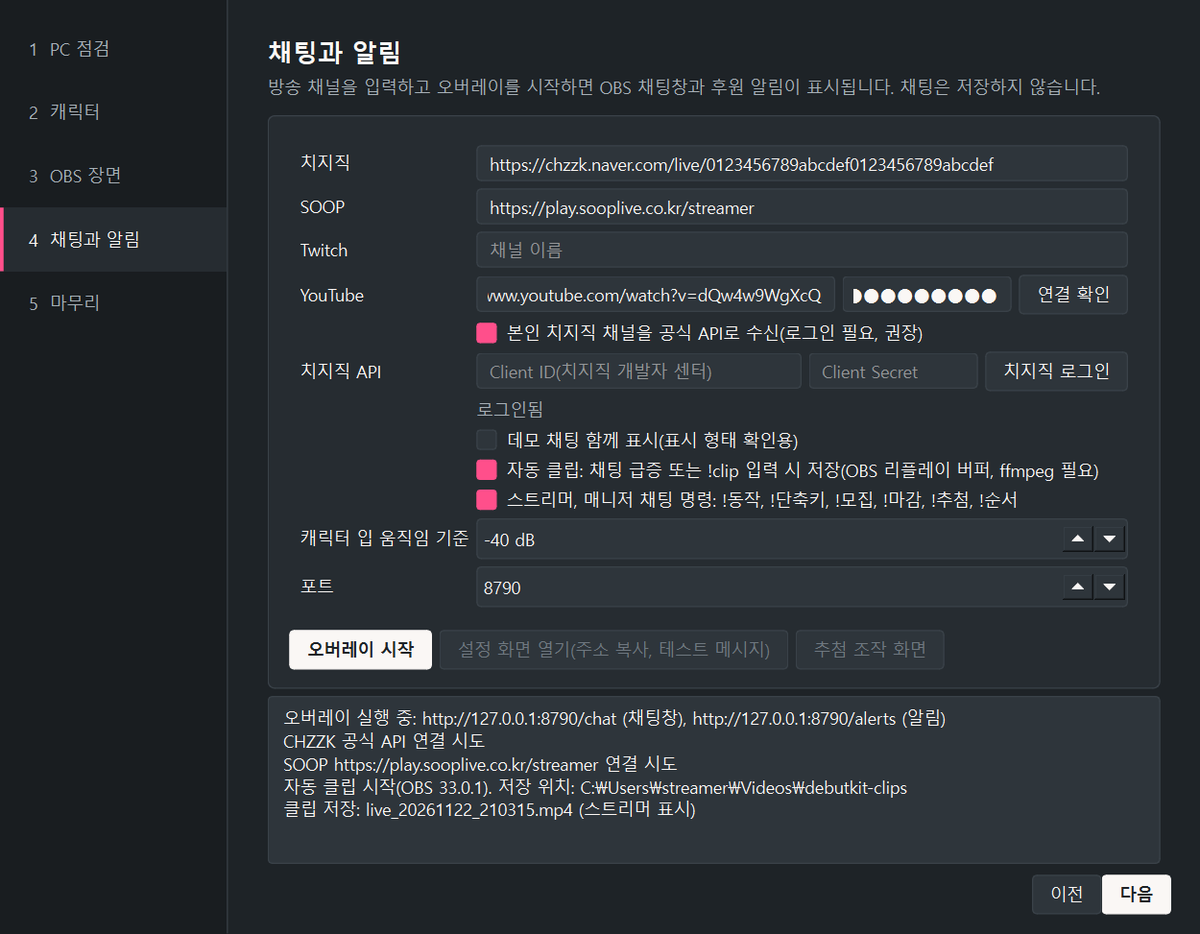
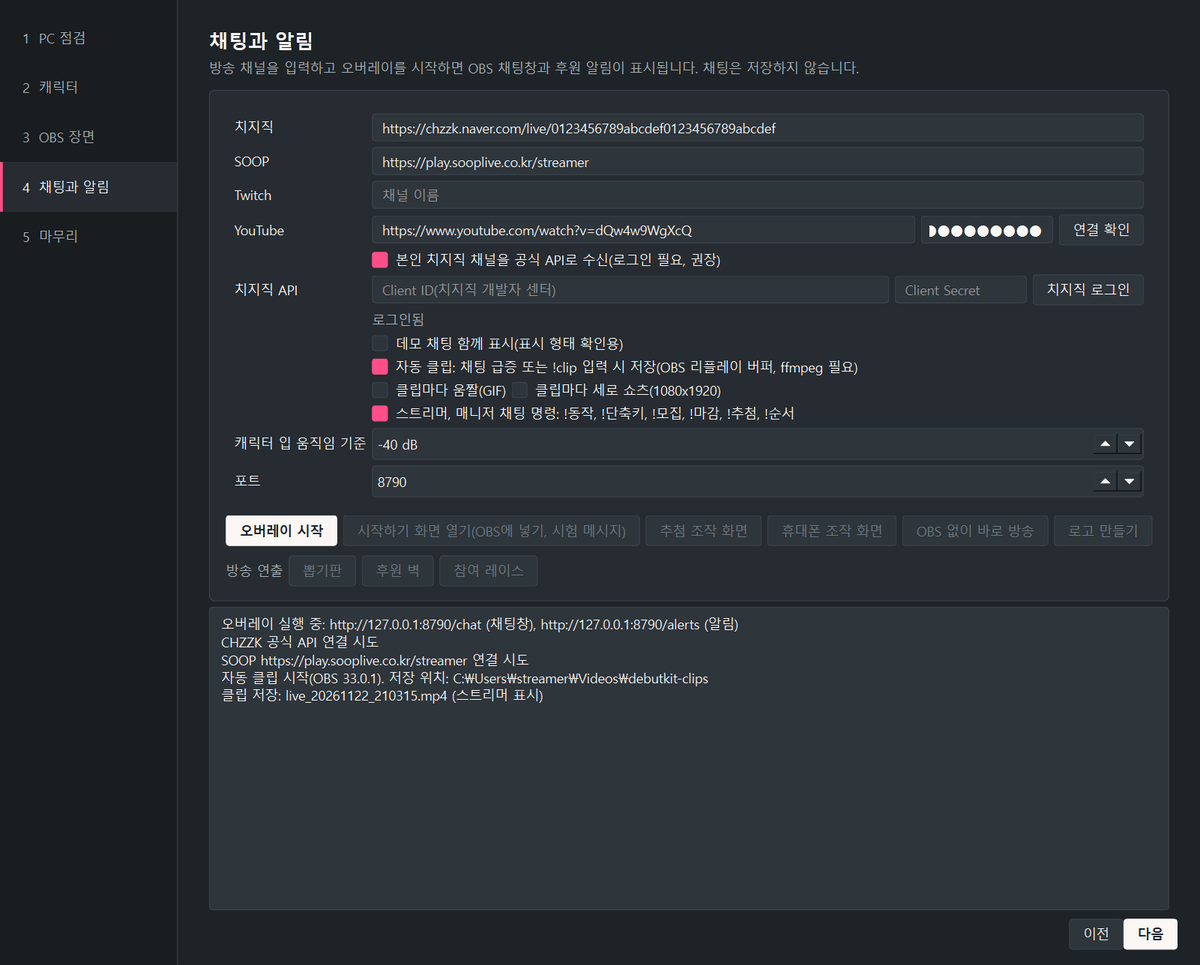
1.0.0rc20 문서에 모양 고르기의 그림 견본, 추첨과 레이스와 후원 벽과 뽑기판의 추천값과 처음 상태로: 사용 설명서, 릴리스 노트, 검증 범위, 다음 단계 후보. 화면 그림 다시 찍기(설정 마법사, 시작하기 화면, 추첨 연출, 채팅창 표시 형태)와 알림 꾸미기 그림 추가(그림 번호 다시 매김, 촬영 스크립트와 사이트 자산 목록)

diff --git a/site/guide.html b/site/guide.html
@@ -137,7 +137,7 @@ debutkit-gui</code></pre>
           </table>
         </div>
         <figure>
-          <img src="assets/shots/wizard-chat.png" alt="설정 마법사 채팅과 알림 단계" width="1200" height="934" loading="lazy">
+          <img src="assets/shots/wizard-chat.png" alt="설정 마법사 채팅과 알림 단계" width="1200" height="965" loading="lazy">
           <figcaption>그림 1. 채팅과 알림 단계</figcaption>
         </figure>
         <ul>
@@ -179,7 +179,7 @@ debutkit-gui</code></pre>
         <h2 id="character">캐릭터</h2>
         <p>방송에 사용할 캐릭터를 등록하고 사용 조건을 확인합니다. PNGTuber와 3D(VRM, GLB, FBX)는 debutkit 캐릭터 화면으로 바로 방송하고, Live2D는 VTube Studio로 보내 방송합니다.</p>
         <figure>
-          <img src="assets/shots/wizard-character.png" alt="설정 마법사 캐릭터 단계. 캐릭터 목록, 사용 조건, 추가, PNG로 만들기, 방송에 사용, 얼굴 추적 창 열기, VTube Studio 연결" width="1200" height="934" loading="lazy">
+          <img src="assets/shots/wizard-character.png" alt="설정 마법사 캐릭터 단계. 캐릭터 목록, 사용 조건, 추가, PNG로 만들기, 방송에 사용, 얼굴 추적 창 열기, VTube Studio 연결" width="1200" height="965" loading="lazy">
           <figcaption>그림 2. 캐릭터 단계</figcaption>
         </figure>
         <h3 id="character-kinds">종류별 처리</h3>
@@ -507,7 +507,7 @@ debutkit camera status                # 휴대폰 연결 대기, 수신 중</cod
           </table>
         </div>
         <figure>
-          <img src="assets/shots/overlay-settings.png" alt="시작하기 화면. 채팅창, 알림, 캐릭터 화면 주소와 미리보기" width="1180" height="1340" loading="lazy">
+          <img src="assets/shots/overlay-settings.png" alt="시작하기 화면. 방송 준비 목록(진행 막대, debutkit 켜기, OBS 연결, OBS에 넣기, 시험 후원, 방송 모양 고르기)과 방송 직전 점검(OBS, 방송 장면, 알림 소리, 채팅 연결, 마이크)" width="1180" height="1340" loading="lazy">
           <figcaption>그림 3. 시작하기 화면</figcaption>
         </figure>
         <h3 id="overlay-start">시작하기 화면과 OBS에 넣기</h3>
@@ -592,12 +592,17 @@ debutkit settings                                # 저장 내용 확인</code></
         <ul>
           <li>추천 모양 5가지(기본 카드, 크게 가운데, 아래 띠, 말풍선, 금액별로 다르게)를 누르면 배치, 위치, 움직임, 효과음, 금액 구간이 한꺼번에 채워집니다. 문구와 올린 그림은 그대로이며 처음 상태로는 기본값으로 돌립니다. 둘 다 저장해야 방송 화면에 반영됩니다.</li>
           <li>저장하지 않은 변경이 있으면 저장 단추에 바뀐 내용 있음이 붙고, 저장하지 않고 화면을 닫으려 하면 브라우저가 한 번 묻습니다.</li>
+          <li>추천 모양과 배치 단추에는 그림 견본이 붙어 있습니다. 저장한 문구와 스타일로 그린 실제 알림 모습이며 소리 없이 이 화면에서만 그립니다.</li>
           <li>배치 6종: 카드, 가로 띠(화면 아래 한 줄), 말풍선, 큰 글자(바탕 없음), 그림 옆 글자, 그림 위 카드</li>
           <li>강조 효과 5종: 반짝이, 종이 조각, 흔들림, 빛 번짐, 크게. 큰 후원 구간에만 넣으면 금액에 따라 연출이 달라집니다.</li>
           <li>금액 구간은 원 기준이며 SOOP 별풍선은 1개 100원으로 계산합니다. Twitch 비트와 외화 후원은 최소 금액 0 구간을 씁니다.</li>
           <li>효과음 5종(차임, 동전, 팡파르, 퐁, 방울)은 브라우저에서 합성하며 OBS 브라우저 소스 속성의 OBS 오디오 제어를 켠 경우 방송에 나갑니다.</li>
           <li>올린 그림(PNG, GIF, WebP, JPEG, 8 MB 이하, 30개까지)은 이 PC의 설정 폴더 <code>alert-images</code>에만 보관합니다. 그림을 지우면 그 그림을 쓰던 구간은 그림 없이 표시합니다.</li>
         </ul>
+        <figure>
+          <img src="assets/shots/overlay-alerts-looks.png" alt="알림 꾸미기 화면. 추천 모양 5가지와 방송 스타일 16가지 단추마다 실제 알림 모습 그림, 오른쪽에 미리보기와 OBS에 넣기" width="1200" height="1180" loading="lazy">
+          <figcaption>그림 5. 알림 꾸미기의 추천 모양과 스타일 그림</figcaption>
+        </figure>
         <h3 id="overlay-draw">후원 추첨</h3>
         <p>후원이 오면 상품표에서 확률대로 뽑아 방송 화면에 카드 뒤집기, 룰렛, 캡슐 뽑기, 즉석 복권, 티켓 출력, 추첨기, 타로 중 고른 연출로 표시합니다. 평소에는 투명하고 추첨할 때만 화면 아래쪽에 나타납니다. 고양이 귀 마이크 문양을 찍은 카드와 무대용 상품 룰렛, 후원자와 금액을 표시하는 하단 띠로 구성됩니다.</p>
         <ol class="procedure">
@@ -609,7 +614,7 @@ debutkit settings                                # 저장 내용 확인</code></
         </ol>
         <figure>
           <img src="assets/shots/overlay-draw.png" alt="후원 추첨 연출. 왼쪽은 카드 3장을 펼쳐 마지막 희귀 카드를 금색으로 공개한 화면, 오른쪽은 상품 룰렛이 희귀 칸에 멈춘 화면. 아래에 결과 판과 후원자 띠" width="1200" height="500" loading="lazy">
-          <figcaption>그림 5. 후원 추첨 연출(카드 뒤집기, 룰렛)</figcaption>
+          <figcaption>그림 6. 후원 추첨 연출(카드 뒤집기, 룰렛)</figcaption>
         </figure>
         <ul>
           <li>금액은 원 기준이며 SOOP 별풍선은 1개 100원으로 계산합니다. Twitch 비트와 외화 후원은 최소 금액 0 규칙에만 반응합니다.</li>
@@ -624,6 +629,8 @@ debutkit settings                                # 저장 내용 확인</code></
           <li>글꼴은 Black Han Sans, Pretendard(모두 SIL OFL)를 프로그램에 포함해 인터넷 연결 없이 표시합니다.</li>
           <li>소품 연출: 캡슐 뽑기(손잡이를 돌릴 때마다 등급 색 캡슐), 즉석 복권(동전으로 은박 긁기, 희귀 칸은 마지막에 천천히), 티켓 출력(등급 색 램프와 출력), 추첨기(구슬 색이 등급), 타로(카드를 섞어 한 장씩 펼치고 오늘의 한마디). 연출마다 모양 3종</li>
           <li>꾸미기: 결과 뒤 효과(종이 조각, 색 테이프, 불꽃놀이, 무대 조명, 하트, 별), 상품 이름과 안내 글의 글꼴과 크기. 타로의 한마디는 직접 입력하거나 기본 문장</li>
+          <li>연출과 모양은 그림 단추로 고릅니다. 그림은 저장한 상품표로 뽑은 예시이며 소리 없이 이 화면에서만 움직입니다. 결과 뒤 효과, 글꼴, 타로 한마디, 추첨 이름, 위치와 크기는 자세히를 펼쳐 바꿉니다.</li>
+          <li>추천 상품표 4가지(감사 인사, 벌칙 룰렛, 노래 신청, 꽝 없이)를 누르면 상품표가 채워집니다. 처음 상태로는 상품표, 규칙, 연출을 처음 값으로 채우며(사용 여부는 그대로) 둘 다 저장해야 반영됩니다. 저장하지 않은 변경은 저장 단추에 표시합니다.</li>
           <li>조작 화면의 대본 새 창(<code>/draw/script</code>)은 읽을 문장을 큰 글자로, 기록 화면(<code>/draw/log</code>)은 최근 결과와 상품별 합계를 보여 줍니다. 기다리는 추첨이 3개 이상이면 연출을 빠르게 합니다.</li>
         </ul>
         <h3 id="overlay-raffle">시청자 참여 추첨</h3>
@@ -635,7 +642,7 @@ debutkit settings                                # 저장 내용 확인</code></
         </ol>
         <figure>
           <img src="assets/shots/overlay-raffle.png" alt="시청자 참여 추첨. 왼쪽은 당첨 카드 3장과 당첨 판, 오른쪽은 참가자 12명의 순서표" width="1200" height="500" loading="lazy">
-          <figcaption>그림 6. 시청자 참여 추첨(당첨자 뽑기, 순서 정하기)</figcaption>
+          <figcaption>그림 7. 시청자 참여 추첨(당첨자 뽑기, 순서 정하기)</figcaption>
         </figure>
         <ul>
           <li>후원 참가: 최소 금액 이상 후원한 시청자도 자동으로 참가합니다(원 기준, 별풍선 1개 100원). 0원은 모든 후원입니다.</li>
@@ -689,6 +696,7 @@ debutkit remote approve 기기                   # 승인(remove로 삭제)</cod
         <ul>
           <li><code>http://127.0.0.1:8790/stage</code>는 채팅, 캐릭터, 알림, 추첨, 후원 벽, 목표 게이지, 순위, 뽑기판, 레이스를 OBS 장면과 같은 자리에 겹쳐 보여 줍니다. 시험 후원(단위와 금액), 시험 채팅, 구독으로 후원 하나가 여러 화면에 어떻게 나오는지 확인합니다.</li>
           <li>방송 색: 색 조합 12종 중 하나를 고르거나 주 색과 강조 색(희귀, 금박)을 직접 고릅니다. 로고 만들기에서 저장한 로고의 색을 가져올 수도 있습니다. 채팅, 알림, 추첨 소품, 뽑기판, 후원 벽, 레이스, 조작 화면이 같은 색을 쓰며 OBS 소스를 새로고침하지 않아도 바뀝니다. 뽑기판과 레이스에서 다른 색을 고르면 그 색이 우선합니다.</li>
+          <li>추천 조합 6가지와 방송 스타일 단추에는 그 조합이나 스타일로 그린 후원 알림 그림이 붙어 있습니다. 게임 패키지 단추의 그림은 게임 HUD 자리(점선)와 피해서 놓는 캐릭터, 채팅, 목표, 순위 자리입니다.</li>
           <li>방송 스타일 8종(방송 소품, 파스텔 몽글, 네온, 레트로 픽셀, 유리, 다이어리, 밤하늘, 미니멀): 모서리, 테두리, 그림자, 바탕, 글꼴, 등장 움직임을 묶어서 바꿉니다. 알림, 채팅창(방송 스타일 카드), 후원 벽, 목표 게이지, 후원 순위가 따르며 방송 색과 함께 씁니다. 알림과 채팅창은 각각 다른 스타일을 고를 수도 있습니다.</li>
           <li>글꼴: 제목 글꼴(이름, 금액, 제목)과 본문 글꼴(메시지, 설명)을 따로 고릅니다. 함께 배포한 글꼴, Windows와 macOS 기본 한글 글꼴, 이 PC에 설치한 글꼴 이름을 쓸 수 있고, 글꼴 파일(TTF, OTF, WOFF, WOFF2, 20 MB 이하)을 올릴 수도 있습니다. 올린 글꼴은 방송에 쓸 수 있는 라이선스인지 확인합니다.</li>
           <li>레트로 픽셀 스타일은 도트 글꼴 갈무리11(Galmuri11), 다이어리 스타일은 손글씨 글꼴 개구(Gaegu)를 씁니다. 둘 다 SIL OFL 글꼴이며 debutkit에 함께 들어 있습니다. 개구에 없는 드문 한글 글자는 기본 글꼴로 표시합니다.</li>
@@ -716,6 +724,7 @@ debutkit remote approve 기기                   # 승인(remove로 삭제)</cod
           <li>배치 보기(이 화면에만)로 당첨 칸 위치를 확인할 수 있습니다. 방송 화면에는 연 칸만 전달합니다.</li>
         </ol>
         <ul>
+          <li>디자인과 덮개 무늬는 그림 단추로 고릅니다. 그림은 저장한 색과 글꼴로 그린 12칸 예시 판(3번 당첨, 8번 꽝이 열린 모습)입니다. 처음 상태로는 디자인, 글자, 연출과 소리, 방송 화면 표시를 처음 값으로 채우고 판과 상품, 시청자 참여는 그대로 둡니다(저장해야 반영).</li>
           <li>디자인 7종(카드 뒤집기, 긁는 복권, 봉투, 캡슐, 작은 문, 스티커 떼기, 메모지), 색(첫 항목은 방송 색), 칸 덮개 11종, 글꼴, 열기 효과 10종과 꽝 효과, 당첨과 꽝 효과음, 제목, 설명, 결과 카드의 글자 크기와 색과 정렬</li>
           <li>시청자 참여(선택): 채팅 명령(기본 <code>!뽑기 7</code>)이나 정한 금액 이상의 후원으로 칸 열기. 열 수 있는 사람(모두, 후원자만, 스트리머와 매니저만), 시청자별 대기 시간, 플랫폼 선택</li>
           <li>공정성 확인: 판을 만들 때 배치와 무작위 문자열로 만든 SHA-256 값을 방송 화면 아래에 공개합니다. 끝내고 배치 공개를 누르면 배치와 문자열을 공개해 누구나 같은 값인지 확인할 수 있습니다.</li>
@@ -727,6 +736,7 @@ debutkit remote approve 기기                   # 승인(remove로 삭제)</cod
         <ul>
           <li>칸 묶기: 단위마다 정확한 개수, 앞자리별(30~39개), 자릿수별, 10, 100, 1000 단위(원은 천과 만 단위). 시그니처 금액은 올린 그림(PNG, GIF, WebP, JPEG, 8 MB 이하)으로 따로 크게 세우고 그림 안에 숫자가 있으면 숫자를 숨깁니다.</li>
           <li>오라 단계(많이 보낼수록 빛 번짐, 반사광, 별가루, 금박), 등장 연출 10종, 대기 효과 6종. 몰려도 차례대로 붙고 기다리는 카드가 많으면 빠르게 붙습니다.</li>
+          <li>연출 칸의 그림은 예시 카드에 고른 등장과 대기 효과를 붙인 모습이며 마지막 카드의 등장을 되풀이합니다. 추천 연출 4가지(차분하게, 귀엽게, 화려하게, 매번 다르게)와 처음 상태로가 있고, 빠른 진행과 시작할 때 비우기 같은 설정은 자세히에 접혀 있습니다. 저장하지 않은 칸은 저장 단추에 표시합니다.</li>
           <li>배치: 자동 배치는 오른쪽 채팅 자리를 비웁니다(선택). OBS의 상호 작용 창이나 조작 화면 미리보기에서 칸을 끌어 옮기고 크기를 바꿉니다. 장면 만들기는 후원 벽을 캐릭터 뒤에 둡니다.</li>
           <li>목표 게이지(<code>/wall/goal</code>, 권장 1280x240)는 원 기준 합계나 단위별 개수와 중간 목표, 후원 순위(<code>/wall/rank</code>, 권장 560x720)는 원 기준 순위입니다. 장면 만들기는 둘 다 왼쪽 위에 작게 숨겨 넣습니다.</li>
           <li>시험 카드(시험 표시, 시험 카드 지우기로 정리), 카드 떼어 옮기기, 마지막 카드 다시 보기, 비우기와 8초 안에 되돌리기, 후원자별 합계 내보내기</li>
@@ -739,6 +749,7 @@ debutkit remote approve 기기                   # 승인(remove로 삭제)</cod
           <li>게임: 구슬 레이스(코스 3종), 달리기 경주(8명씩 예선과 결승 또는 30명까지 같이), 서바이벌(좁아지는 경기장에서 끝까지 남기). 붙여 넣은 이름도 참가하며 <code>이름*3</code>은 3번 참가합니다. 한 판 최대 100명</li>
           <li>순위와 시드는 시작할 때 debutkit이 운영체제 난수로 정해 방송 화면과 조작 화면이 같은 결과를 보여 줍니다. 경기 중에 연 화면도 지금 장면부터 이어서 보여 줍니다. 화면 아래에 시드 번호를 표시합니다.</li>
           <li>깜짝 요소(없음, 조금, 많이와 종류별 켜기), 당첨 순위(1등, 꼴등, 직접 입력), 경기 길이, 재생 속도 0.7~2.2배, 디자인 3종, 색(첫 항목은 방송 색), 글꼴, 효과음</li>
+          <li>게임, 코스, 디자인은 그림 단추로 고릅니다. 그림은 저장한 설정의 예시 경주를 중간에 멈춘 장면입니다. 추천 3가지(가볍게 한 판, 빠른 달리기, 끝까지 긴장)와 처음 상태로(게임과 꾸미기만, 참가자 설정은 그대로)가 있으며 이 화면은 바꾸면 바로 저장합니다. 재생 속도와 깜짝 요소는 자세히에 접혀 있습니다.</li>
           <li>결과는 채팅창 안내 한 줄로 알리고 전체 순위와 조별 기록을 텍스트 파일로 저장할 수 있습니다. 연습 모드는 예시 이름으로 미리 해 봅니다.</li>
           <li>명령줄: <code>debutkit race start --game marble</code>, <code>race start --names "치즈냥*3, 도토리"</code>, <code>race next</code>, <code>race stop</code>, <code>race status</code></li>
         </ul>

diff --git a/site/index.html b/site/index.html
@@ -49,7 +49,7 @@
       <div class="slides">
         <figure class="slide" id="slide-1">
           <div class="stage">
-            <img src="assets/shots/wizard-check.png" alt="설정 마법사 PC 점검 단계. 메모리, CPU, 그래픽카드, 마이크, 웹캠, OBS 등 항목별 점검 결과와 조치 안내" width="1200" height="934">
+            <img src="assets/shots/wizard-check.png" alt="설정 마법사 PC 점검 단계. 메모리, CPU, 그래픽카드, 마이크, 웹캠, OBS 등 항목별 점검 결과와 조치 안내" width="1200" height="965">
             <label class="turn prev" for="shot-6"><span class="vh">이전 화면</span></label>
             <label class="turn next" for="shot-2"><span class="vh">다음 화면</span></label>
             <span class="count">1/5</span>
@@ -58,7 +58,7 @@
         </figure>
         <figure class="slide" id="slide-2">
           <div class="stage">
-            <img src="assets/shots/wizard-character.png" alt="설정 마법사 캐릭터 단계. 캐릭터 목록과 사용 조건, 3D 캐릭터 동작 등록" width="1200" height="934" loading="lazy">
+            <img src="assets/shots/wizard-character.png" alt="설정 마법사 캐릭터 단계. 캐릭터 목록과 사용 조건, 3D 캐릭터 동작 등록" width="1200" height="965" loading="lazy">
             <label class="turn prev" for="shot-1"><span class="vh">이전 화면</span></label>
             <label class="turn next" for="shot-3"><span class="vh">다음 화면</span></label>
             <span class="count">2/5</span>
@@ -67,7 +67,7 @@
         </figure>
         <figure class="slide" id="slide-3">
           <div class="stage">
-            <img src="assets/shots/wizard-chat.png" alt="설정 마법사 채팅과 알림 단계. 플랫폼별 채널 입력, 치지직 API 로그인, 자동 클립 선택" width="1200" height="934" loading="lazy">
+            <img src="assets/shots/wizard-chat.png" alt="설정 마법사 채팅과 알림 단계. 플랫폼별 채널 입력, 치지직 API 로그인, 자동 클립 선택" width="1200" height="965" loading="lazy">
             <label class="turn prev" for="shot-2"><span class="vh">이전 화면</span></label>
             <label class="turn next" for="shot-4"><span class="vh">다음 화면</span></label>
             <span class="count">3/5</span>
@@ -85,7 +85,7 @@
         </figure>
         <figure class="slide" id="slide-5">
           <div class="stage">
-            <img src="assets/shots/overlay-settings.png" alt="시작하기 화면. 방송 화면 주소, 표시 형태 선택, 미리보기, 캐릭터 화면과 동작 실행" width="1180" height="1340" loading="lazy">
+            <img src="assets/shots/overlay-settings.png" alt="시작하기 화면. 방송 준비 목록과 방송 직전 점검, OBS에 넣기 단추" width="1180" height="1340" loading="lazy">
             <label class="turn prev" for="shot-4"><span class="vh">이전 화면</span></label>
             <label class="turn next" for="shot-6"><span class="vh">다음 화면</span></label>
             <span class="count">5/6</span>
@@ -103,9 +103,9 @@
         </figure>
       </div>
       <div class="thumbs">
-        <label for="shot-1"><img src="assets/shots/wizard-check.png" alt="" width="1200" height="934"></label>
-        <label for="shot-2"><img src="assets/shots/wizard-character.png" alt="" width="1200" height="934"></label>
-        <label for="shot-3"><img src="assets/shots/wizard-chat.png" alt="" width="1200" height="934"></label>
+        <label for="shot-1"><img src="assets/shots/wizard-check.png" alt="" width="1200" height="965"></label>
+        <label for="shot-2"><img src="assets/shots/wizard-character.png" alt="" width="1200" height="965"></label>
+        <label for="shot-3"><img src="assets/shots/wizard-chat.png" alt="" width="1200" height="965"></label>
         <label for="shot-4"><img src="assets/shots/overlay-themes.png" alt="" width="1200" height="600"></label>
         <label for="shot-5"><img src="assets/shots/overlay-settings.png" alt="" width="1180" height="1340"></label>
         <label for="shot-6"><img src="assets/shots/overlay-draw.png" alt="" width="1200" height="500"></label>
@@ -289,7 +289,7 @@ debutkit-gui</code></pre>
       <ul class="cards">
         <li>
           <a href="guide.html">
-            <img src="assets/shots/wizard-character.png" alt="" width="1200" height="934" loading="lazy">
+            <img src="assets/shots/wizard-character.png" alt="" width="1200" height="965" loading="lazy">
             <span class="label">문서</span>
             <strong>사용 설명서</strong>
             <span class="desc">설치, 설정 마법사, 캐릭터, OBS 장면, 채팅과 알림, 자동 클립 사용 방법</span>
@@ -305,7 +305,7 @@ debutkit-gui</code></pre>
         </li>
         <li>
           <a href="news.html">
-            <img src="assets/shots/wizard-check.png" alt="" width="1200" height="934" loading="lazy">
+            <img src="assets/shots/wizard-check.png" alt="" width="1200" height="965" loading="lazy">
             <span class="label">기록</span>
             <strong>릴리스 노트</strong>
             <span class="desc">버전별 주요 변경 사항과 검증 범위</span>
@@ -313,7 +313,7 @@ debutkit-gui</code></pre>
         </li>
         <li>
           <a href="join.html">
-            <img src="assets/shots/wizard-chat.png" alt="" width="1200" height="934" loading="lazy">
+            <img src="assets/shots/wizard-chat.png" alt="" width="1200" height="965" loading="lazy">
             <span class="label">안내</span>
             <strong>참여 안내</strong>
             <span class="desc">프로그램 사용, 개발 참여, 실제 환경 확인, 소속 버튜버 의향 등록</span>

diff --git a/site/news.html b/site/news.html
@@ -97,6 +97,7 @@
             <li>팬 커뮤니티(<code>debutkit community</code>): 트게더처럼 스트리머마다 자기 커뮤니티(공지, 방송 일정, 게시판, 팬아트, 댓글, 출석과 포인트, 순위). 스트리머 본인의 Cloudflare 무료 계정에 올리고, 방송 채팅 <code>!인증</code>으로 가입, <code>!출석</code> 포인트, 방송에 띄우기, 참여 추첨 연결, 신고 처리와 데이터 내보내기</li>
             <li>처음 쓰는 사람을 위한 화면 정리: 시작하기 화면의 방송 준비 목록(OBS 연결과 넣은 화면 자동 확인), 방송 화면마다 OBS에 넣기(크기와 알림 소리까지), 위쪽 메뉴를 할 일 묶음 다섯으로, 용어 풀이, 추천 조합</li>
             <li>방송 직전 점검: OBS, 방송 장면, 알림 소리, 채팅 연결, 마이크를 한곳에서 보고 단추로 바로 고치기. 알림 꾸미기의 추천 모양과 처음 상태로, 저장하지 않은 변경 표시</li>
+            <li>모양을 그림으로 고르기: 알림, 방송 스타일, 게임 패키지, 후원 추첨 연출, 레이스, 뽑기판, 후원 벽의 모양 단추에 실제 모습 그림. 추첨, 레이스, 후원 벽, 뽑기판에도 추천값과 처음 상태로</li>
             <li>디스코드 합방: 디스코드 음성 위젯을 방송 스타일로 꾸미기(참여자별 캐릭터 그림)와 웹훅 방송 알림</li>
             <li>레트로 픽셀(갈무리11)과 다이어리(개구) 글꼴을 함께 배포</li>
             <li>채팅창 꾸미기: 방송 스타일 카드, 이름 색(시청자마다 다른 색 등), 등장 움직임, 오른쪽 정렬, 위부터 쌓기, 이모티콘 크기</li>

diff --git a/packaging/build_screens.py b/packaging/build_screens.py
@@ -275,6 +275,8 @@ def overlay_shots(browser: list[str]) -> list[Path]:
     server = overlay_server()
     try:
         settings = capture(browser, server.url + "/", OUT / "overlay-settings.png", (1180, 1340))
+        # 알림 꾸미기: 추천 모양과 배치의 그림 견본(그림은 화면에 보일 때 불러오므로 넉넉히 기다림)
+        looks = capture(browser, server.url + "/alerts/control", OUT / "overlay-alerts-looks.png", (1200, 1180), wait=10.0)
         draws = draw_shot(browser, server.url)
         raffles = draw_shot(browser, server.url, OUT / "overlay-raffle.png", (("pick", "sample=raffle", 7.0), ("order", "sample=order", 5.0)))
     finally:
@@ -283,7 +285,7 @@ def overlay_shots(browser: list[str]) -> list[Path]:
         page = Path(folder) / "themes.html"
         page.write_text(themes_page(), encoding="utf-8")
         themes = capture(browser, page.as_uri(), OUT / "overlay-themes.png", (1200, 600))
-    return [settings, draws, raffles, themes]
+    return [settings, looks, draws, raffles, themes]
 
 
 def shrink(path: Path, width: int = 1200) -> None:

diff --git a/packaging/build_site.py b/packaging/build_site.py
@@ -27,6 +27,7 @@ ASSETS: dict[str, str] = {
     "assets/shots/wizard-chat.png": "docs/images/wizard-chat.png",
     "assets/shots/wizard-character.png": "docs/images/wizard-character.png",
     "assets/shots/overlay-settings.png": "docs/images/overlay-settings.png",
+    "assets/shots/overlay-alerts-looks.png": "docs/images/overlay-alerts-looks.png",
     "assets/shots/overlay-themes.png": "docs/images/overlay-themes.png",
     "assets/shots/overlay-draw.png": "docs/images/overlay-draw.png",
     "assets/shots/overlay-raffle.png": "docs/images/overlay-raffle.png",

diff --git a/docs/ROADMAP.md b/docs/ROADMAP.md
@@ -309,6 +309,7 @@
 | 게임 패키지 | 판매 게임 오버레이 패키지 구성과 게임 회사 팬 콘텐츠 정책(Riot, Blizzard, Nexon, Krafton, Mojang) 조사로 장르 스타일 8종, 게임 패키지 10종, 프레임 추가. 단위 테스트(패키지마다 스타일, 알림 위치, 자리가 화면 안이고 채팅이 HUD 상자와 겹치지 않음, 적용 항목별 반영과 확인 안내, 프레임 문구 검사, 실시간 항목, 장면의 게임 배치와 4K 비율, 게임 장면만 따로 만든 채팅 소스, 프레임 화면, 명령줄). 브라우저에서 발로란트 패키지 적용 뒤 미리보기의 HUD 상자와 배치, 택티컬, 마법 금장, 선술집 카드 대기 화면의 새로고침 없는 전환, 히어로, 서바이벌, 다크 판타지, 스포츠 중계, 모험 동화 알림. 처음 구현에서 대기 화면의 줄무늬 띠가 카운트다운을 가려 위치를 옮김. HUD 자리는 일부 기억에 기댄 값이라 실제 게임 화면 확인이 남음 |
 | 팬 커뮤니티 | 트게더(2024-07-01 종료, 데이터 내보내기 없음)와 현재 대안(치지직 채널 커뮤니티, 네이버 크리에이터 카페, SOOP 방송국, 디스코드, 팬딩, 개인 팬사이트), 시청자 로그인 방법, 무료 호스팅, 운영 의무 조사로 스트리머 본인 Cloudflare 계정 방식 결정. Worker 시험(Node 내장 SQLite로 D1, KV 흉내: 채팅 인증 가입과 계정 연결, 다른 회원 연결 막기, 출석과 하루 한도, 글과 댓글의 이스케이프, CSRF와 다른 사이트 요청 거절, 신고와 가리기와 방송에 띄우기, 정지, 팬아트 그림 형식, 스트리머 접속 주소 한 번만, 일정과 방송 중과 추첨, 탈퇴, 가려진 글 안내, 내보내기). debutkit 시험(채팅의 시청자 번호, Cloudflare REST 순서와 바인딩과 multipart, 토큰 비공개 저장과 다시 올리기, 방송 연동 작업과 추첨 맞추기, 데모 채팅은 방송 중으로 치지 않음). 브라우저에서 이 PC 미리보기 커뮤니티와 검토용 오버레이를 이어 시험 채팅 `!인증`으로 가입, `!출석` 포인트, 팬아트 올리기, 관리 화면, 방송에 띄우기가 OBS 화면에 나옴. 처음 구현에서 틀린 일정을 올리면 기존 일정이 지워져 모두 확인한 뒤 바꾸도록, 데모 채팅(플랫폼 이름만 진짜)이 방송 중 표시를 켜서 데모 표시를 두도록 수정 |
 | 초보자 화면 | 쉬운 화면 레퍼런스(Streamlabs 플러그인, Elgato Marketplace Connect, OBS 끌어다 놓기와 자동 구성 마법사, Twitch Studio 종료, PRISM, VTube Studio, NN/g, Apple HIG, 토스 UX 라이팅, OBS 포럼의 초보자 질문) 조사로 시작하기 목록, OBS에 넣기, 메뉴 묶음, 용어 풀이, 추천 조합. 단위 테스트(OBS 흉내로 소스 만들기와 크기와 소리 모니터링, 이미 있는 소스, 지금 장면 확인, 잘못된 값, 오류 안내, 오버레이 경로). 브라우저에서 시작하기 목록과 OBS가 꺼졌을 때 할 일과 끌어다 놓기 링크, 용어 풀이, 메뉴 두 줄 구성, 추천 조합 적용. 처음 구현에서 메뉴가 묶음 이름과 함께 두 줄로 넘쳐 묶음 다섯 한 줄과 둘째 줄로, 목록 안의 번호 목록이 항목 모양을 물려받아 고침. 실제 OBS로 넣기는 미확인 |
+| 그림 견본, 추천값과 처음 상태로 | 단위 테스트(처음 값 주소, 후원 벽 견본이 실제 벽과 저장 파일을 바꾸지 않음, 견본 주소의 잘못된 값 무시, 한 화면만 다른 색, 그림 견본 모드와 그림 단추, ui.js 불러오는 순서). 브라우저에서 알림 꾸미기(추천 모양, 스타일, 배치), 방송 화면 미리보기(추천 조합, 방송 스타일, 게임 패키지), 후원 추첨, 참여 레이스, 후원 벽, 뽑기판의 그림 단추, 추천값, 처음 상태로, 바뀐 내용 표시. OBS 독 안에서의 그림 견본 부담은 미확인 |
 | 방송 직전 점검 | 단위 테스트(채팅 수신기별 상태: 연결됨과 채팅 수, 오류 이유, 데모 표시, OBS 알림 소리의 모니터링과 음소거, 알림 꾸미기 기본값, 화면 연결 부분). 브라우저에서 OBS가 꺼지고 데모 채팅만 있을 때 다섯 항목이 할 일과 함께 주황으로, 알림 꾸미기의 추천 모양 적용과 바뀐 내용 표시와 저장 뒤 해제. 실제 OBS와 실제 방송 채팅에서의 초록 표시는 미확인 |
 | 디스코드 합방 | 음성 위젯 CSS(방송 스타일, 부분 일치 선택자, :has 없이), 참여자 그림, 웹훅(주소 검사, 호출 막기, 429 다시, 404 안내, 시작 한 번과 끝 요약, 데모 채팅 제외) 단위 테스트. 브라우저에서 예시 미리보기. 실제 StreamKit 위젯과 디스코드 웹훅 전송은 미확인 |
 | 미확인 | 실제 OBS 브라우저 소스(CEF)에서 공유 연결(SharedWorker)과 무대 차례, 실제 방송 플랫폼 후원으로 후원 벽과 뽑기판, 새 효과음, VMC를 실제 Warudo와 VSeeFace가 받는지와 머리 회전 방향, macOS와 Linux의 방송 시작 버튼 |
@@ -344,7 +345,7 @@
   - 실제 OBS에서 공유 연결과 무대 차례 확인(Verify 작업에 브라우저 소스 여러 개 단계 추가)
   - 휴대폰 조작 화면에서 뽑기판 칸 열기와 참여 레이스 다음 조
   - 게임 패키지 2차: 실제 게임 화면으로 HUD 자리 맞추기(이 PC의 캡처만 쓰고 배포하지 않음), 미니맵을 옮긴 사용자용 좌우 반전 배치, 일반 FPS와 일반 RPG 배치, 아이템 등급 색을 후원 금액 구간에 쓰는 알림
-  - 초보자 화면 3차(방송 직전 점검, 알림 꾸미기의 추천 모양과 처음 상태로, 바뀐 내용 표시, 마법사 다음 할 일은 1.0.0rc20에서 완료): 추첨, 뽑기판, 후원 벽, 레이스 화면의 추천값과 처음 상태로와 자세히 접기, 저장 방식 통일(바로 반영과 저장 단추), 커뮤니티 올리기와 휴대폰 연결을 단계별 화면으로, 사이트와 사용 설명서의 화면 그림 새로 찍기
+  - 초보자 화면 3차(방송 직전 점검, 추천 모양과 처음 상태로, 바뀐 내용 표시, 마법사 다음 할 일, 모양 고르기의 그림 견본, 추첨, 뽑기판, 후원 벽, 레이스의 추천값과 자세히 접기는 1.0.0rc20에서 완료): 저장 방식 통일(바로 반영과 저장 단추), 커뮤니티 올리기와 휴대폰 연결을 단계별 화면으로, 사용 설명서에 조작 화면 그림 더하기(방송 화면 미리보기, 후원 추첨, 후원 벽, 레이스), 그림 견본을 OBS 독에서 가볍게(필요할 때만 그리기)
   - 팬 커뮤니티 2차: 실제 Cloudflare 계정에 올리기 확인(이번에는 REST 흉내로만 시험), 네이버 크리에이터 카페(2026-12 공개 예정)와 디스코드 연동, 투표 게시판과 방송 화면 결과, 사연 읽기 화면, 클립 자동 모으기, 포인트 아이콘과 칭호, 그림 크기 자동 줄이기, 자기 도메인 연결, 커뮤니티 프로그램 새 버전 알림
   - 합방 디스코드 연동 2단계 이후(음성 위젯 꾸미기와 웹훅 알림은 1.0.0rc20에서 완료): 참여자 캐릭터(각자 debutkit이 입 모양 값만 공유), 공동 추첨과 레이스. 음성을 받는 봇은 하지 않음
   - 디자인 선택지 2차: 알림 영상(WebM 투명)과 효과음 파일 올리기, 함께 배포할 OFL 한글 글꼴 추가(도트, 손글씨, 둥근 고딕), 계절 스타일, 스타일 직접 만들기(바탕, 테두리, 모서리 값 고르기)와 내보내기

diff --git a/CHANGELOG.md b/CHANGELOG.md
@@ -69,6 +69,8 @@
 - 방송 직전 점검(시작하기 화면): OBS 연결, 지금 장면의 채팅창과 알림, 알림 소리(음소거, 모니터링), 채팅 연결(플랫폼별 연결됨과 채팅 수, 끊김 이유, 데모 채팅만인지), 마이크 음량. 장면에 없는 화면과 알림 소리는 단추로 바로 고침. 오버레이 `/status` 에 채팅 수신기별 상태
 - 알림 꾸미기의 추천 모양 5가지(기본 카드, 크게 가운데, 아래 띠, 말풍선, 금액별로 다르게)와 처음 상태로, 저장하지 않은 변경 표시(저장 단추 강조, 닫을 때 묻기), 금액 구간과 그림이 없을 때 할 일 안내
 - 설정 마법사 마무리 단계의 다음 할 일(시작하기 화면 열기, 방송 준비 목록과 방송 직전 점검 안내)
+- 모양 고르기의 그림 견본: 알림 꾸미기의 추천 모양, 스타일, 배치, 방송 화면 미리보기의 추천 조합과 방송 스타일(그 조합의 후원 알림), 게임 패키지(HUD 자리와 피한 배치), 후원 추첨의 연출과 모양(저장한 상품표로 뽑은 예시), 참여 레이스의 게임, 코스, 디자인(멈춘 장면), 뽑기판의 디자인과 덮개 무늬(예시 판), 후원 벽의 등장과 대기 효과(예시 카드). 그림은 소리 없이 조작 화면에서만 그리며 방송에 나가지 않음(`/alerts?still`, `/race?sample&still`, `/pick?sample`, `/wall?sample`, `/wall/sample`, `/theme.css?primary=&highlight=`)
+- 후원 추첨, 참여 레이스, 후원 벽, 뽑기판의 추천값(추천 상품표 4가지, 레이스 추천 3가지, 후원 벽 추천 연출 4가지)과 처음 상태로, 자세히 접기, 저장하지 않은 변경 표시. `/draw/config`, `/race/config`, `/wall/state`, `/pick/secret` 에 처음 값(defaults)
 - 방송 화면 꾸미기의 추천 조합 6가지(귀여운 파스텔, 깔끔한 미니멀, 네온 게이머, 아늑한 다이어리, 별빛 밤하늘, 레트로 게임)와 처음 상태로
 - 디스코드 합방(`/discord/control`): 디스코드 공식 음성 위젯(StreamKit) 꾸미기(방송 스타일 이름표, 배치, 그림 크기, 말하는 사람만 밝게, 참여자별 평소 그림과 말할 때 그림, 예시 미리보기, OBS에 넣기)와 웹훅 방송 알림(방송 시작, 방송 끝 요약, 직접 보내기, 호출 막기, 웹훅 주소 암호화 보관)
 - 레트로 픽셀 글꼴 갈무리11(Galmuri 2.40.4), 다이어리 글꼴 개구(Gaegu)를 함께 배포(SIL OFL, 보통과 굵게). 글꼴 고르기에도 추가
@@ -85,6 +87,7 @@
 - OBS 장면 만들기: 본방송과 토크 장면에 후원 벽(캐릭터 뒤), 뽑기판, 참여 레이스, 목표 게이지(왼쪽 위), 후원 순위를 숨긴 채로 넣음. 숨긴 동안은 멈춤
 - OBS 없이 바로 방송: 송출 화면에 넣을 연출 선택(후원 벽, 목표 게이지, 순위, 뽑기판, 참여 레이스. 기본은 참여 레이스)
 - 설정 마법사: 채팅과 알림 단계에 뽑기판, 후원 벽, 참여 레이스 조작 화면 버튼, 다루지 않는 저장 설정(추첨 꾸미기 등)은 저장할 때 유지
+- 사용 설명서와 소개 페이지의 화면 그림을 새 화면으로 다시 찍음(설정 마법사, 시작하기 화면의 방송 준비와 방송 직전 점검, 추첨 연출, 채팅창 표시 형태). 알림 꾸미기 그림(그림 5) 추가, 그림 번호 다시 매김
 - 오버레이 서버의 기능 등록 틀(`overlay/feature.py`): 새 기능이 화면, 조회, 조작, 실시간 항목, 사건 받기를 한곳에서 등록. 기능별 저장 파일(`settings.data_path`)
 
 ## 1.0.0rc19 (2026-11-24)
